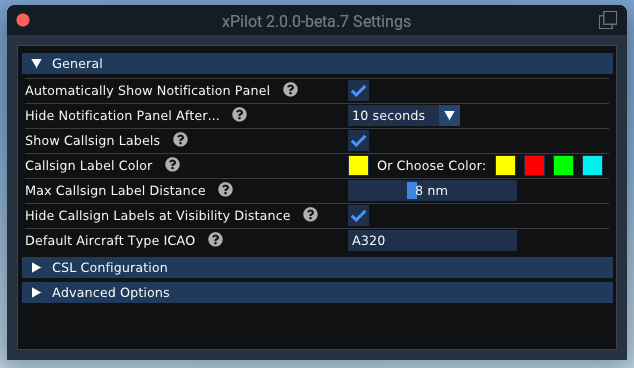
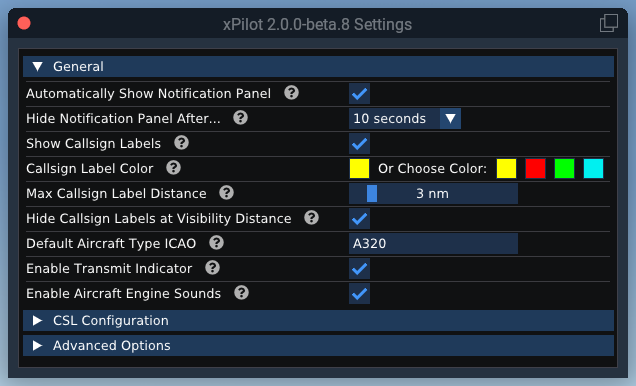
Update X-Plane settings to include Transmit Indicator and Aircraft Sounds options

diff --git a/docs/xplane.md b/docs/xplane.md
@@ -24,6 +24,10 @@ All xPilot Plugin settings are saved to a file named `Config.json` in the `X-Pla
 
 * **Default Aircraft Type ICAO**<br/>The fallback aircraft ICAO type designator that is used if no appropriate CSL model can be found for a plane. The plane will instead be rendered as this aircraft type as opposed to not rendering at all.
 
+* **Enable Transmit Indicator**<br/>Enable this option to see a green transmit indicator at the top left corner of your X-Plane window when you press your Push to Talk.
+
+* **Enable Aircraft Engine Sounds**<br/>Enable this option to add ambient engine sounds to other aircraft.
+
 ## CSL Configuration
 
 xPilot has no complex or special model matching rule sets that need to be installed or configured. You must have at least one CSL model set package installed before you can use xPilot. The most popular model set is Bluebell CSL. When you first install xPilot, you will be prompted to install a CSL model set.
